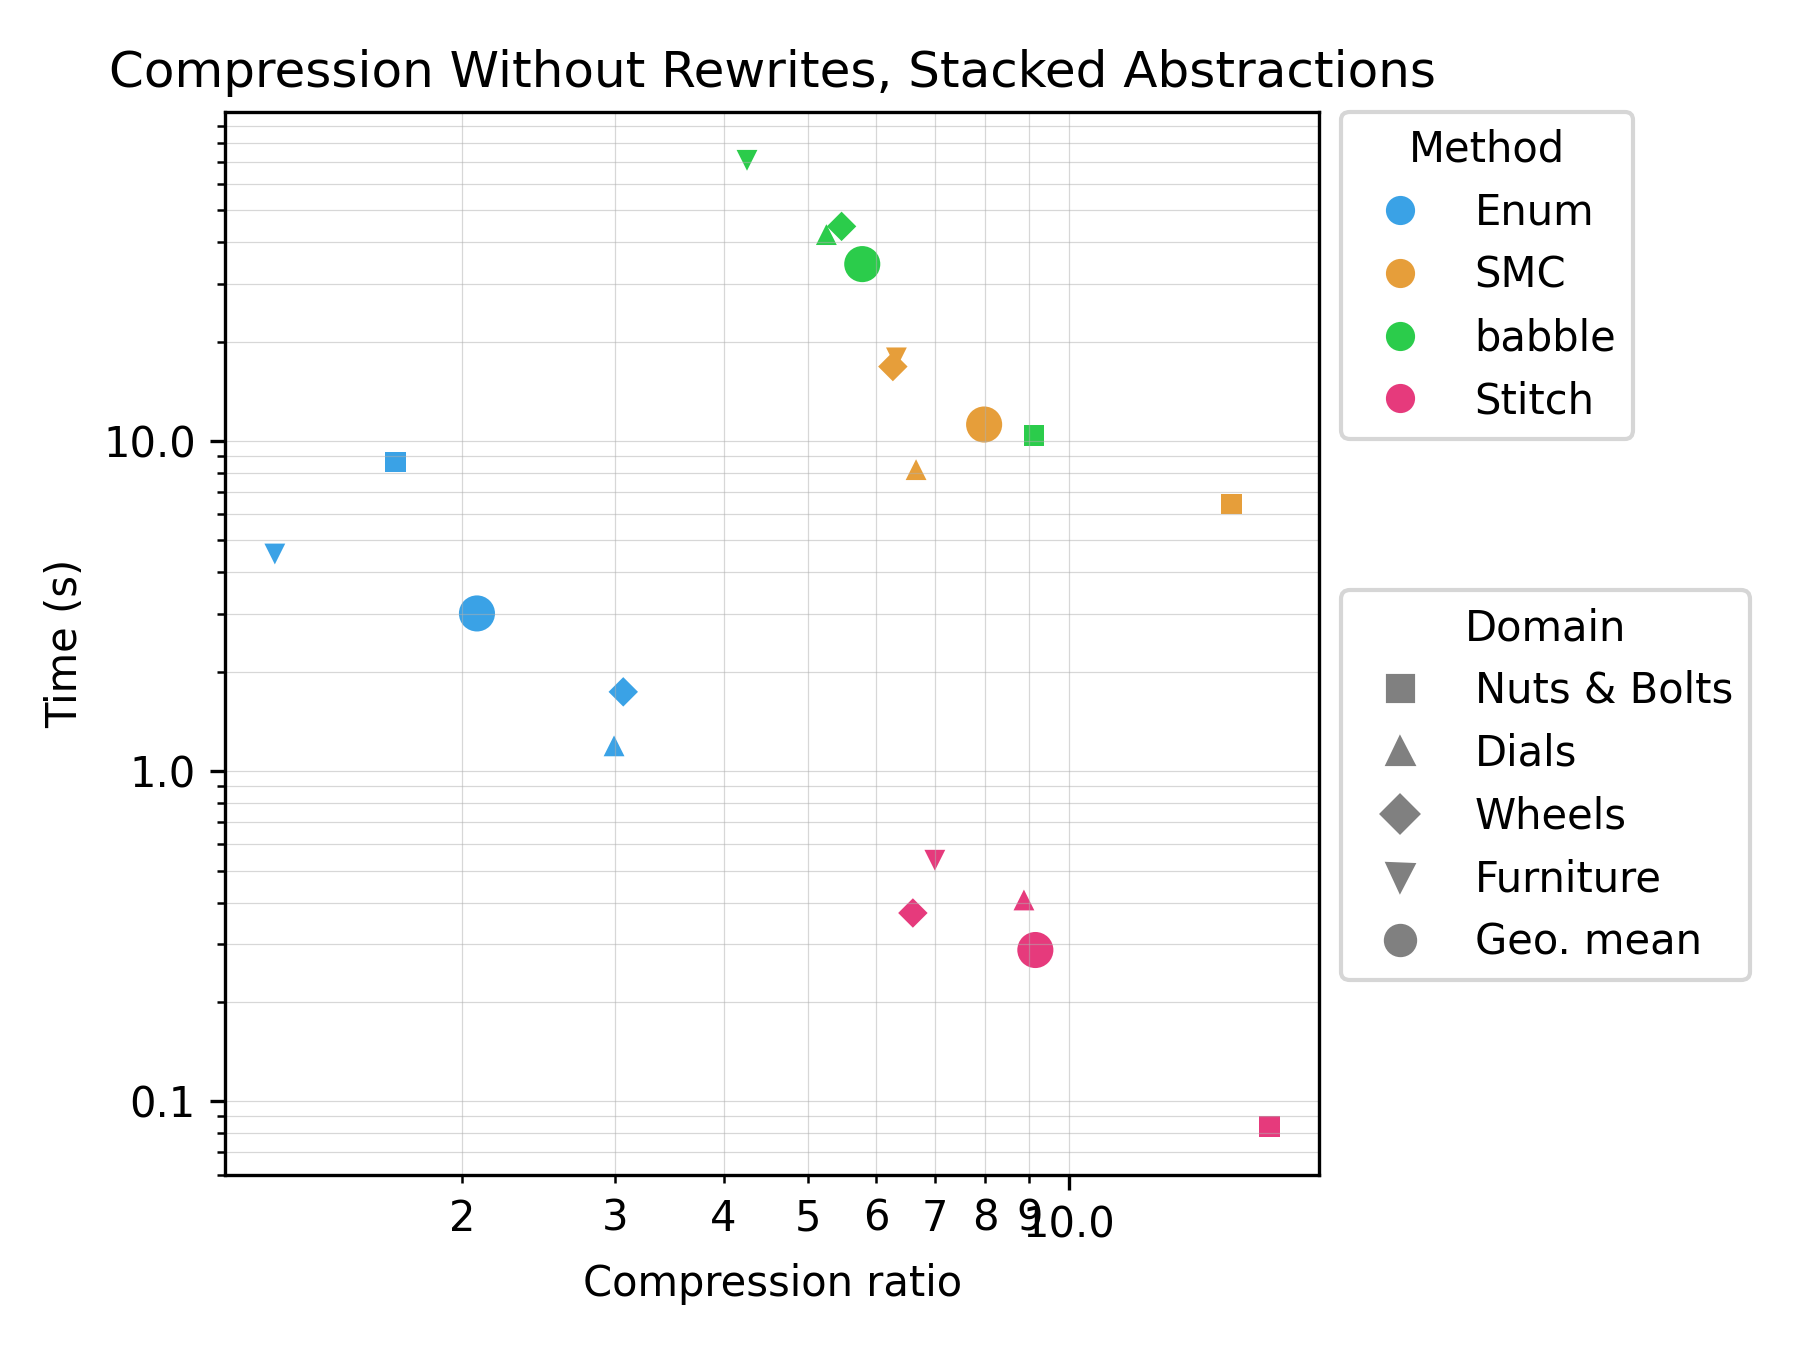
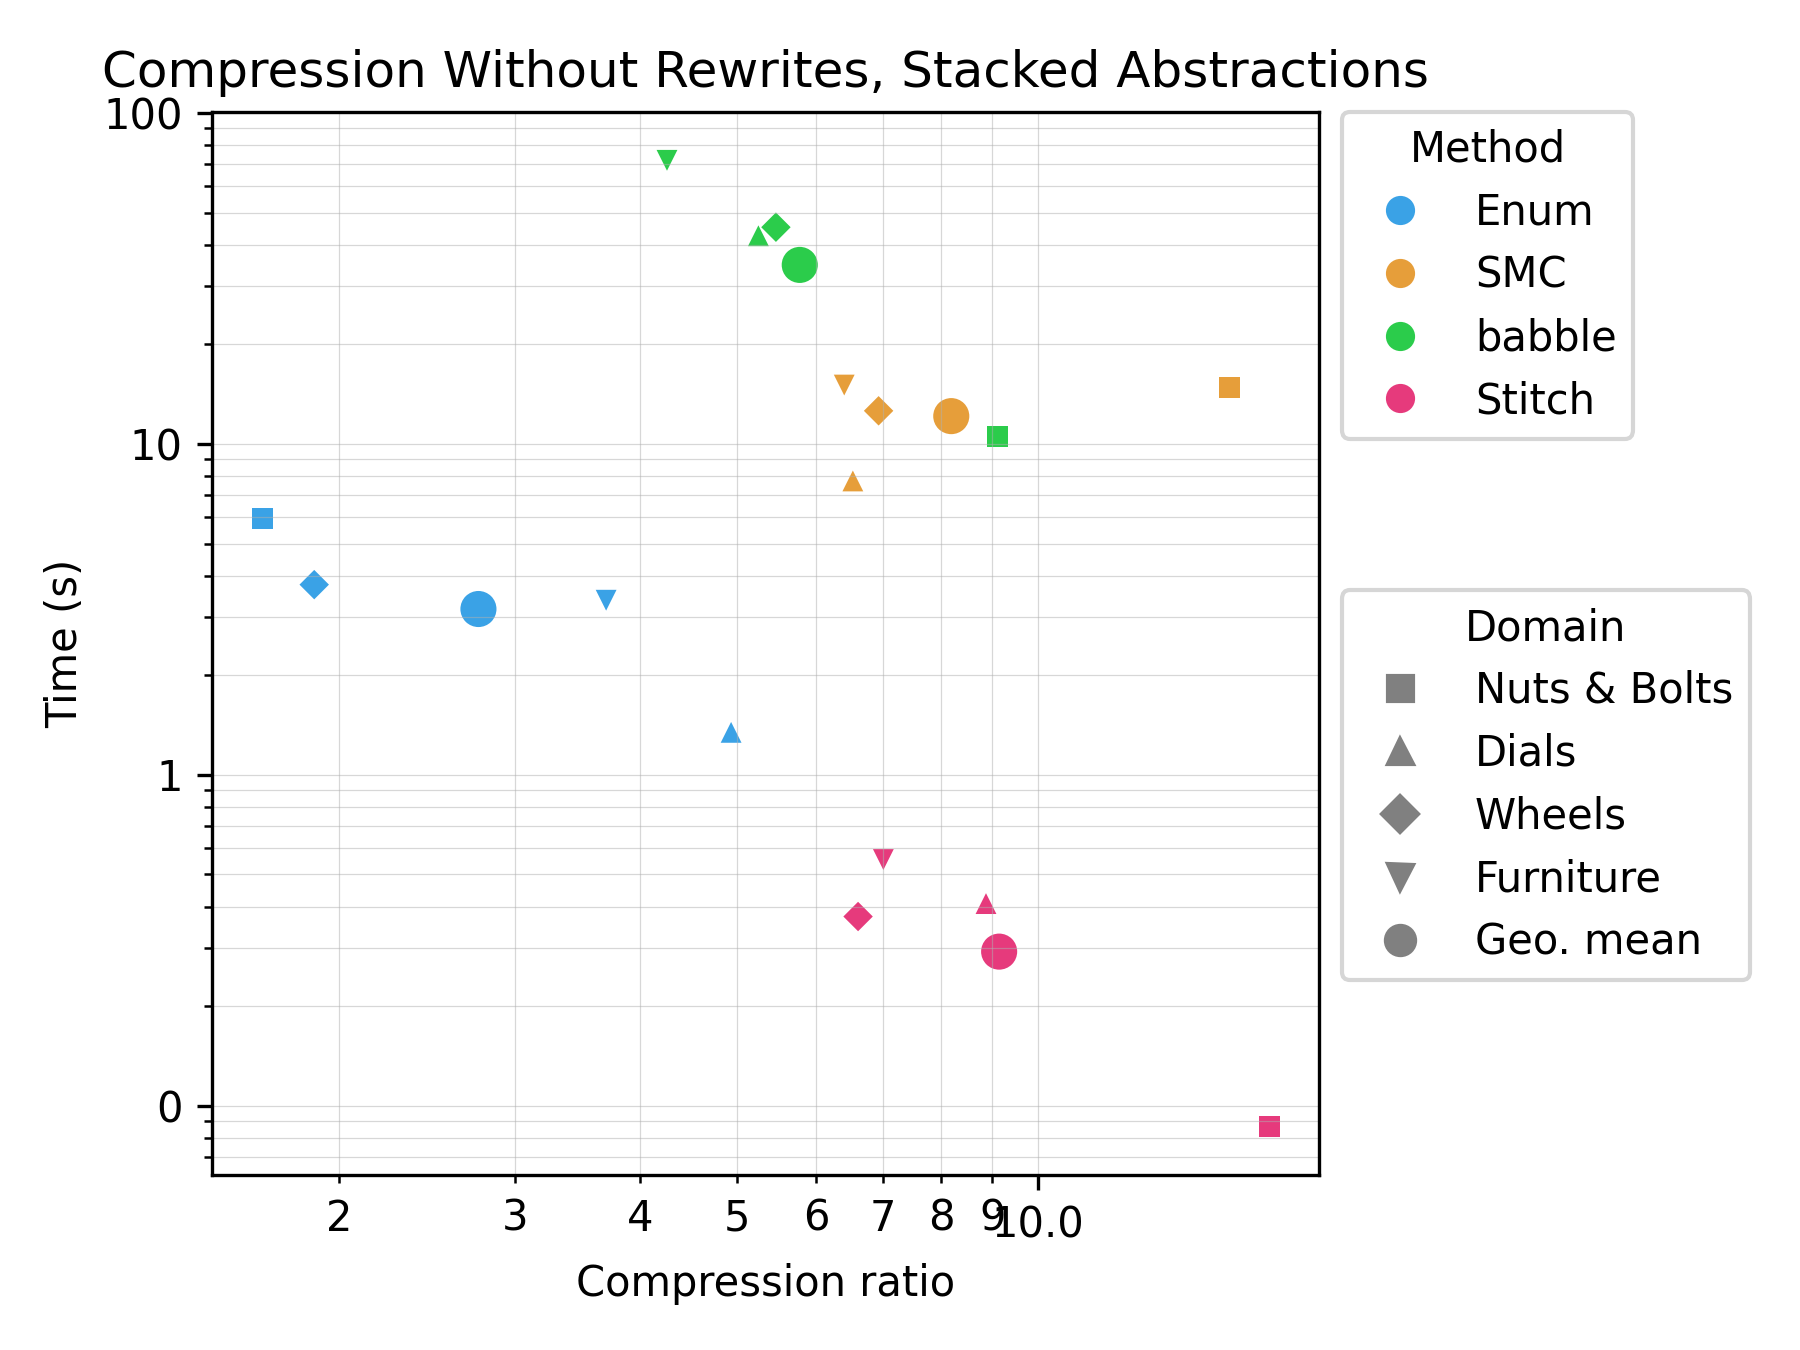
rebuild egraphs in code

diff --git a/expts/table2.py b/expts/table2.py
@@ -32,6 +32,7 @@ def table2(
     smc_temperature: float = 1000.0,
     enum_num_steps: int = 500,
     num_abstractions: int = 1,
+    rebuild_egraph: bool = False,
     folder_prefix: str = "table2",
     output_name: str = "table2.json",
     title: str = DEFAULT_TABLE2_TITLE,
@@ -49,6 +50,7 @@ def table2(
             "smc": {"num_steps": smc_num_steps, "num_particles": smc_num_particles, "temperature": smc_temperature},
             "enum": {"num_steps": enum_num_steps},
             "num_abstractions": num_abstractions,
+            "rebuild_egraph": rebuild_egraph,
         },
         "domains": {},
     }
@@ -58,7 +60,7 @@ def table2(
         enum_runs, smc_runs, babble_runs, stitch_runs = [], [], [], []
         for i in range(NUM_RUNS):
             print(f"  run {i+1}/{NUM_RUNS}", flush=True)
-            enum_res, _ = run_ours(domain, "best-first", num_steps=enum_num_steps, rewrites=None, num_abstractions=num_abstractions)
+            enum_res, _ = run_ours(domain, "best-first", num_steps=enum_num_steps, rewrites=None, num_abstractions=num_abstractions, rebuild_egraph=rebuild_egraph)
             smc_res, _ = run_ours(
                 domain, "smc",
                 num_steps=smc_num_steps,
@@ -66,6 +68,7 @@ def table2(
                 temperature=smc_temperature,
                 rewrites=None,
                 num_abstractions=num_abstractions,
+                rebuild_egraph=rebuild_egraph,
             )
             babble_res = run_babble(domain, num_abstractions=num_abstractions)
             stitch_res = run_stitch(domain, num_abstractions=num_abstractions)

diff --git a/expts/table1.py b/expts/table1.py
@@ -38,6 +38,7 @@ def table1(
     smc_temperature: float = 1000.0,
     enum_num_steps: int = 500,
     num_abstractions: int = 1,
+    rebuild_egraph: bool = False,
     folder_prefix: str = "table1",
     output_name: str = "table1.json",
     title: str = DEFAULT_TABLE1_TITLE,
@@ -59,6 +60,7 @@ def table1(
             "smc": {"num_steps": smc_num_steps, "num_particles": smc_num_particles, "temperature": smc_temperature},
             "enum": {"num_steps": enum_num_steps},
             "num_abstractions": num_abstractions,
+            "rebuild_egraph": rebuild_egraph,
         },
         "domains": {},
     }
@@ -69,13 +71,14 @@ def table1(
         egraph_min = None
         for i in range(NUM_RUNS):
             print(f"  run {i+1}/{NUM_RUNS}", flush=True)
-            enum_res, egraph_min = run_ours(domain, "best-first", num_steps=enum_num_steps, num_abstractions=num_abstractions)
+            enum_res, egraph_min = run_ours(domain, "best-first", num_steps=enum_num_steps, num_abstractions=num_abstractions, rebuild_egraph=rebuild_egraph)
             smc_res, _ = run_ours(
                 domain, "smc",
                 num_steps=smc_num_steps,
                 num_particles=smc_num_particles,
                 temperature=smc_temperature,
                 num_abstractions=num_abstractions,
+                rebuild_egraph=rebuild_egraph,
             )
             babble_res = run_babble(domain, dsr=rewrites_path(domain), num_abstractions=num_abstractions)
             enum_runs.append(enum_res.to_dict())

diff --git a/expts/table3.py b/expts/table3.py
@@ -24,6 +24,7 @@ def table3(**kwargs) -> Path:
     Any keyword arguments accepted by :func:`table1` can be passed through.
     """
     kwargs.setdefault("num_abstractions", NUM_ABSTRACTIONS)
+    kwargs.setdefault("rebuild_egraph", True)
     kwargs.setdefault("folder_prefix", "table3")
     kwargs.setdefault("output_name", "table3.json")
     kwargs.setdefault("title", TABLE3_TITLE)

diff --git a/expts/table4.py b/expts/table4.py
@@ -24,6 +24,7 @@ def table4(**kwargs) -> Path:
     Any keyword arguments accepted by :func:`table2` can be passed through.
     """
     kwargs.setdefault("num_abstractions", NUM_ABSTRACTIONS)
+    kwargs.setdefault("rebuild_egraph", True)
     kwargs.setdefault("folder_prefix", "table4")
     kwargs.setdefault("output_name", "table4.json")
     kwargs.setdefault("title", TABLE4_TITLE)
